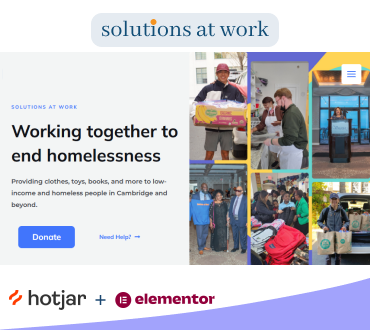
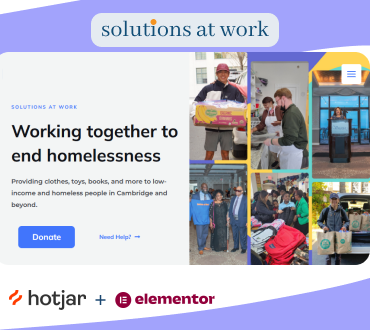
Add SAW

Changed region(s): [[0.0, 0.0, 1.0, 0.1818], [0.9811, 0.7576, 1.0, 0.8182]]

diff --git a/(5) solutionsatwork.html b/(5) solutionsatwork.html
@@ -1,0 +1,241 @@
+<!DOCTYPE html>
+<html>
+
+<head>
+    <meta charset="utf-8">
+    <meta http-equiv="X-UA-Compatible" content="IE=edge">
+    <title>KW Solutions at Work</title>
+    <link rel="icon" href="images/AKW_Favicon32x32.png" sizes="32x32" type="image/png">
+    <link rel="icon" href="images/AKW_Favicon48x48.png" sizes="48x48" type="image/png">
+    <meta name="description"
+        content="A summary of my work at Solutions at Work, a nonprofit in Massachusetts dedicated to aiding low-income and homeless people. I am the lead designer, user researcher, and technical administrator.">
+    <meta name="viewport" content="width=device-width, initial-scale=1">
+    <link rel="stylesheet" href="css/styles.css">
+    <link rel="stylesheet" href="https://cdnjs.cloudflare.com/ajax/libs/font-awesome/4.7.0/css/font-awesome.min.css">
+</head>
+
+<body>
+    <div id="header"></div>
+    <div class="projectcontainer">
+        <p class="name">Solutions at Work</p>
+    </div>
+    <img class="largeimage" src="images\saw\hero.png" id="image_sawhero"
+        alt="Sample mobile screens of 5 pages on the Solutions at Work website which I designed.">
+    <div class="projectcontainer">
+        <div class="projectsidebyside">
+            <div class="left">
+                <p class="pgrey">
+                    <b>Summary:</b> I work at the Cambridge, Massachusetts nonprofit Solutions at Work. The organization suffered from a terribly dated website and social media. As such, I single handedly modernized their entire online presence by overhauling the website, creating infographics, a design system, conducting user research, and more.
+                    <br><br>
+                    <b>Skills: </b>UX Design, UX Copy, User Research, Graphic Design, Technical Administration
+                    <br><br>
+                    <b>Time spent: </b>>1 year.
+                </p>
+            </div>
+
+            <div class="right">
+                <img class="smallimage" src="images\saw\sawmasonry.png" id="image_sawmasonry"
+                    alt="A masonry design I created for our homepage with photos of many of our events giving out food, school supplies, and hosting fundraisers.">
+            </div>
+        </div>
+    </div>
+
+    <img class="largeimage" src="images\saw\oldtonew.png" id="image_oldtonew"
+        alt="A decorative grid of wallboards, posters, and advertisements which I made for Ronday.">
+
+    <div class="projectcontainer">
+        <div class="projectsidebyside">
+            <div class="left pgrey">
+                <p>
+                    I completely overhauled the online presence of Solutions at Work. It began with an assessment of the website. The
+                    interface was cluttered, and was nearly unusable on mobile. Furthermore, the information was months out of date with no
+                    consistency in the information hierarchy. So, I created a design system to overhaul the entire website’s content and
+                    design. Since the redesign, I conduct user research on the website using Hotjar.<br><br>
+                    
+                    Additionally, I volunteer as a technical administrator. I manage organization emails, domain certificates, writing and
+                    sending newsletters to over 1300 people, and managing our contacts database. Furthermore, I serve on the media committee
+                    where we make decisions for upcoming events and donation drives.
+                </p>
+
+            </div>
+
+
+            <div class="right">
+                <img class="smallimage" src="images\saw\stats.png" id="image_sawstats"
+                    alt="24% increased donations, 32% higher traffic, 60% fewerhelp emails.">
+
+            </div>
+        </div>
+    </div>
+
+    <img class="largeimage" src="images\saw\designsystem.png" id="image_sawdesignsystem"
+        alt="A banner which reads 'creating the design system'.">
+
+    <div class="projectcontainer">
+        <div class="projectsidebyside">
+            <div class="left pgrey">
+                <p>
+                    My design process began by reviewing some well known design systems - namely M3 and Shopify. The website is meant
+                    primarily to convince users to donate to the cause, so I knew the system need not be very in-depth. Then, I did some
+                    brief reviews of the 100+ organizations we have partnered with in the past. From there I made the following design
+                    decisions:
+                </p>
+                <ul>
+                    <li>Our primary target users are people who can donate, not people in need of donations</li>
+                    <li>For ethical reasons, we will use positive language to celebrate making a difference over guilting users about how
+                    difficult it is to be homeless</li>
+                    <li>In addition to positive language, we will use bright and warm colors</li>
+                    <li>Our website containers will have rounded edges</li>
+                </ul>
+            </div>
+
+
+            <div class="right">
+                <img class="smallimage" src="images\saw\colors.png" id="image_sawcolors"
+                    alt="Graphical overview of the primary colors used on the website.">
+            </div>
+        </div>
+    </div>
+
+    <div class="projectcontainer">
+        <div class="projectsidebyside">
+            <div class="left pgrey">
+                <p>
+                    After initial construction of the design system, I went over it once again with an eye for accessibility
+                </p>
+                <ol>
+                    <li> All images must have alt text </li>
+                    <li> As many users are elderly, text contrast must be at least 7:1</li>
+                    <li> Reading level of content must be kept beneath secondary school reading level</li>
+                    <li> Removal of time-sensitive content</li>
+                    <li>Layout must work on desktop, tablet, and mobile</li>
+                </ol>
+
+
+            </div>
+
+
+            <div class="right">
+                <img class="smallimage" src="images\saw\keycolors.png" id="image_sawkeycolors"
+                    alt="Key Colors for the Website.">
+            </div>
+        </div>
+    </div>
+
+    <div class="projectcontainer">
+        <div class="projectsidebyside">
+            <div class="left pgrey">
+                <p>
+                    Design systems pose serious advantages - creating designs are much quicker, fewer revisions are needed, and they allow entire
+                    organisations to maintain consistency. This consistency persists no matter the size of the organisation or if
+                    assignments change hands. <br><br>
+                    
+                    However, design systems require a lot of effort to update and maintain. One small change could cause ripples which take several
+                    hours to apply. In other words, design systems promote efficiency within consistency, but require extra effort to remain
+                    flexible.
+                </p>
+
+            </div>
+
+
+            <div class="right">
+                <img class="smallimage" src="images\saw\fontstyles.png" id="image_sawfontstyles"
+                    alt="A collection of the fonts on the website.">
+            </div>
+        </div>
+    </div>
+
+    <div class="projectcontainer">
+        <div class="projectsidebyside">
+            <div class="left pgrey">
+                <p>
+                    If you are wondering, yes it is nearing ridiculous to make an entire design system for an organization of this small of
+                    a size. However, it was an opportunity for me to learn and so I seized it with both arms! While the scope of the designs
+                    I make for this organization are limited, by studying Shopify and M3's design systems in depth, I have definitively
+                    grown as a designer.
+                </p>
+    
+            </div>
+    
+    
+            <div class="right">
+                <img class="smallimage" src="images\saw\buttons.png" id="image_sawbuttons"
+                    alt="A collection of buttons for the website.">
+            </div>
+        </div>
+    </div>
+
+    <img class="largeimage" src="images/ronday/userresearch.png" id="image_userresearch"
+        alt="A banner with the title 'Conducting User Research'.">
+
+    <div class="projectcontainer">
+        <div class="projectsidebyside">
+            <div class="left pgrey">
+                <p>
+                    As the only designer on the team, I’ve been fortunate to have the control enough to design and run my own user tests. By
+                    analyzing heatmaps and viewing user recordings, I have been able to make demonstrable improvements to user experience. 
+                </p>
+            </div>
+
+
+            <div class="right">
+                <img class="smallimage" src="images\saw\Heatmap.jpg"
+                    alt="A photo of the introduction, methodology, and participants of the study.">
+            </div>
+        </div>
+    </div>
+
+    <div class="projectcontainer">
+        <div class="projectsidebyside">
+            <div class="paragraph pgrey">
+                
+                
+                    <h2><B>Improving information hierarchy</B></h2>
+                <ul>
+                    <li> <b>Problem</b>: Our contact email kept receiving questions that should’ve been easily answered by the website</li>
+                    <li> <b>Research</b>: Analyzing 10 random clickmaps from people who visited donations</li>
+                    <li> <b>Findings</b>: The information hierarchy was poor which discouraged users from scrolling far enough</li>
+                    <li> <b>Result</b>: After changing it, the number of emails about our hours/locations dropped by 60%</li>
+                </ul>
+
+                <h2><B>Distinguishing Headers from Buttons</B></h2>
+                <ul>
+                    <li> <b>Problem</b>: As shown in the heat map, several users thought the header was a button</li>
+                    <li> <b>Research</b>: A/B Test on a new style of header</li>
+                    <li> <b>Result</b>: Fewer clicks on non-interactable elements</li>
+                </ul>
+                
+                    <h2><B>Reducing visual clutter on mobile</B></h2>
+                <ul>
+                    <li> <b>Problem</b>: By reviewing user recordings, I noticed a large number of mobile users were scrolling all the way down, and all the way up on the donation page looking for
+                    information</li>
+                    <li> <b>Research</b>: A/B Test on a new mobile interface</li>
+                    <li> <b>Result</b>: Designed a more streamlined donation page which reduced the page's bounce rate by 11%</li>
+                </ul>
+
+                </p>
+            </div>
+        </div>
+    </div>
+
+    <div class="projectcontainer">
+        <div class="projectsidebyside">
+            <div class="paragraph">
+                <p class="pgrey">
+                    I have never met another group so passionate and hardworking just because they know it to be right. That alone has made
+                    the entire experience worthwhile. There were a few pain points however, as are all working around other jobs and
+                    responsibilities. A lack of resources is the most common. But, I have thoroughly enjoyed learning and improving beyond
+                    my skills as a UX Designer.
+               
+                </p>
+            </div>
+        </div>
+    </div>
+
+
+    <div id="footer"></div>
+    <script src="javascript/navigation.js"></script>
+    <script src="" async defer></script>
+</body>
+
+</html>

diff --git a/index.html b/index.html
@@ -76,25 +76,34 @@
         <p class="h1">My recent work</p>
         
         <div class="grid-container">
-            <a href="https://www.figma.com/proto/7D3CvSQPz8KFCxmZUU9Rp0/Ebay-Mtg?page-id=1%3A24&type=design&node-id=1-30&viewport=537%2C418%2C0.11&t=AtQypIge7wyDbvtz-1&scaling=scale-down&starting-point-node-id=1%3A30" class="grid-item" target="_blank" rel="noopener noreferrer"><img src="images/eBay/Ebay Wizard.png"
+            <a href="https://www.figma.com/proto/F4w3lA6Hff2fZpftzFPxBq/Amazon-E-Commerce?page-id=11%3A2&node-id=13-8&node-type=canvas&viewport=-45169%2C-2796%2C1.33&t=kTvirH3jgcEbJfQR-1&scaling=scale-down&content-scaling=fixed&starting-point-node-id=13%3A8" class="grid-item" target="_blank" rel="noopener noreferrer"><img src="images/miniprojects/itdependsthumbnail.png"
                 alt="Logos of Ebay and Python"><span
-                class="text">Ebay Auction Wizard →</span></a>
+                class="text">UX's Favorite Design Answer →</span></a>
 
-            <a href="#" class="grid-item" target="_blank" rel="noopener noreferrer"><img src="images/saw/SolutionsatWorkthumbnail.png"
+            <a href="(5) solutionsatwork.html" class="grid-item" target="_blank" rel="noopener noreferrer"><img src="images/saw/SolutionsatWorkthumbnail.png"
                 alt="Screenshot of Solutions at Work website plus the Hotjar and Elementor Logos"><span
-                class="text">UX and Content Designer (COMING SOON)</span></a>
+                class="text">UX and Content Designer</span></a>
+
             <!-- <a href="https://www.figma.com/proto/fUkJA4WJNrRScXNt5qE5Vf/TTC?page-id=1%3A13&type=design&node-id=29-372&viewport=-328%2C273%2C0.09&t=QavErtD8HxGJ7Lnw-1&scaling=scale-down&starting-point-node-id=29%3A372&mode=design" class="grid-item" target="_blank" rel="noopener noreferrer"><img src="images/TTC/TTC.png"
                 alt="The logo of the Travel Corporation"><span
                 class="text">Figma TTC Demo →</span></a> -->
+
             <a href="(1) ronday.html" class="grid-item"><img src="images/ronday/rondaythumbnail.png"
                 alt="A bunch of digital orbs representing people, having a party in a Winter Wonderland."><span
                 class="text">Ronday Technologies</span></a>
+
             <a href="(2) unitedway.html" class="grid-item"><img src="images/unitedway/unitedwaythumbnail.png"
                     alt="The non-profit United Ways logo with the subtitle 'WCAG 2.0 Usability Review'."><span
                     class="text">Visual Guide to WCAG</span></a>
-            <a href="(3) thesis.html" class="grid-item"><img src="images/thesis/thesisthumbnail.png"
+
+            <a href="https://www.figma.com/proto/7D3CvSQPz8KFCxmZUU9Rp0/Ebay-Mtg?page-id=1%3A24&type=design&node-id=1-30&viewport=537%2C418%2C0.11&t=AtQypIge7wyDbvtz-1&scaling=scale-down&starting-point-node-id=1%3A30" class="grid-item" target="_blank" rel="noopener noreferrer"><img src="images/miniprojects/Ebay Wizard.png"
+                alt="Logos of Ebay and Python"><span
+                class="text">Ebay Auction Wizard →</span></a>
+
+            <!-- <a href="(3) thesis.html" class="grid-item"><img src="images/thesis/thesisthumbnail.png"
                 alt="A photo of me lying on a neck pillow with 2 Arduinos attached to it."><span
-                class="text">Somaesthetic Master's Thesis</span></a>
+                class="text">Somaesthetic Master's Thesis</span></a> -->
+
             <a href="(4) walkoverme.html" class="grid-item"><img src="images/walkoverme/walkovermethumbnail.png"
                 alt="Playing twister on an interactive light-up floor which I developed."><span class="text">Walk
                     Over Me</span></a>

diff --git a/projects.html b/projects.html
@@ -21,7 +21,7 @@
        
     </div>
 
-    <a href="https://solutionsatwork.org" class="portfolioitem">
+    <a href="(5) solutionsatwork.html" class="portfolioitem">
         <div class="container blue">
             <div class="circles1"></div>
             <div class="circles2"></div>
@@ -127,7 +127,10 @@
         <p class="h1">Other Passion Projects</p>
 
         <div class="grid-container">
-            <a href="https://www.figma.com/proto/7D3CvSQPz8KFCxmZUU9Rp0/Ebay-Mtg?page-id=1%3A24&type=design&node-id=1-30&viewport=537%2C418%2C0.11&t=AtQypIge7wyDbvtz-1&scaling=scale-down&starting-point-node-id=1%3A30" class="grid-item" target="_blank" rel="noopener noreferrer"><img src="images/eBay/Ebay Wizard.png"
+            <a href="https://www.figma.com/proto/F4w3lA6Hff2fZpftzFPxBq/Amazon-E-Commerce?page-id=11%3A2&node-id=13-8&node-type=canvas&viewport=-45169%2C-2796%2C1.33&t=kTvirH3jgcEbJfQR-1&scaling=scale-down&content-scaling=fixed&starting-point-node-id=13%3A8" class="grid-item" target="_blank" rel="noopener noreferrer"><img src="images/miniprojects/itdependsthumbnail.png"
+                alt="The logo of the Travel Corporation"><span
+                class="text">UX's Favorite Design Answer →</span></a>
+            <a href="https://www.figma.com/proto/7D3CvSQPz8KFCxmZUU9Rp0/Ebay-Mtg?page-id=1%3A24&type=design&node-id=1-30&viewport=537%2C418%2C0.11&t=AtQypIge7wyDbvtz-1&scaling=scale-down&starting-point-node-id=1%3A30" class="grid-item" target="_blank" rel="noopener noreferrer"><img src="images/miniprojects/Ebay Wizard.png"
                 alt="The logo of the Travel Corporation"><span
                 class="text">Ebay Auction Wizard →</span></a>
             <!-- <a href="https://www.figma.com/proto/fUkJA4WJNrRScXNt5qE5Vf/TTC?page-id=1%3A13&type=design&node-id=29-372&viewport=-328%2C273%2C0.09&t=QavErtD8HxGJ7Lnw-1&scaling=scale-down&starting-point-node-id=29%3A372&mode=design" class="grid-item" target="_blank" rel="noopener noreferrer"><img src="images/TTC/TTC.png"

diff --git a/css/styles.css b/css/styles.css
@@ -735,6 +735,18 @@ button[type="submit"]:hover {
         display: none;
     }
 
+    #image_sawhero {
+        content: url(../images/saw/hero_small.png)
+    }
+
+    #image_oldtonew {
+        content: url(../images/saw/oldtonew_small.png)
+    }
+
+    #image_sawdesignsystem {
+        content: url(../images/saw/designsystem_small.png)
+    }
+
     #image_me {
         content: url(../images/about/me_small.png);
     }

diff --git a/footer.html b/footer.html
@@ -9,5 +9,5 @@
         <p class="greet" style="color:white;"> KIDDER-WOLFF DESIGN </p>
     </div>
 
-    <p style="color: white;"> &copy; 2023 Kidder-Wolff Design <p>
+    <p style="color: white;"> &copy; 2024 Kidder-Wolff Design <p>
 </div>
